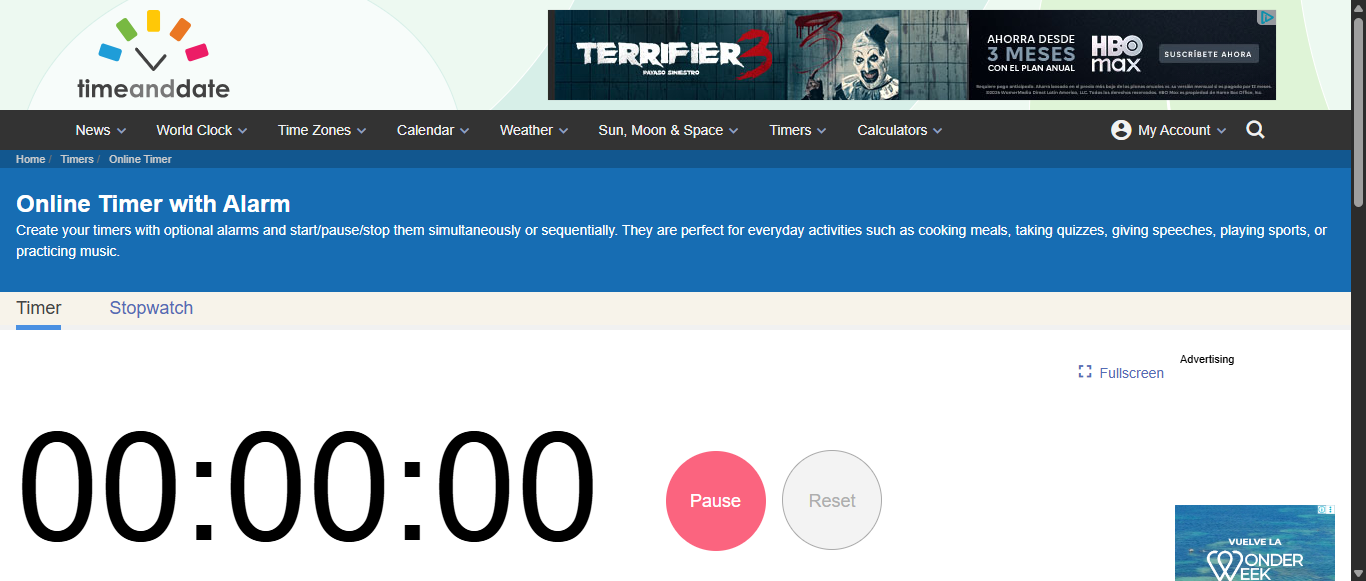
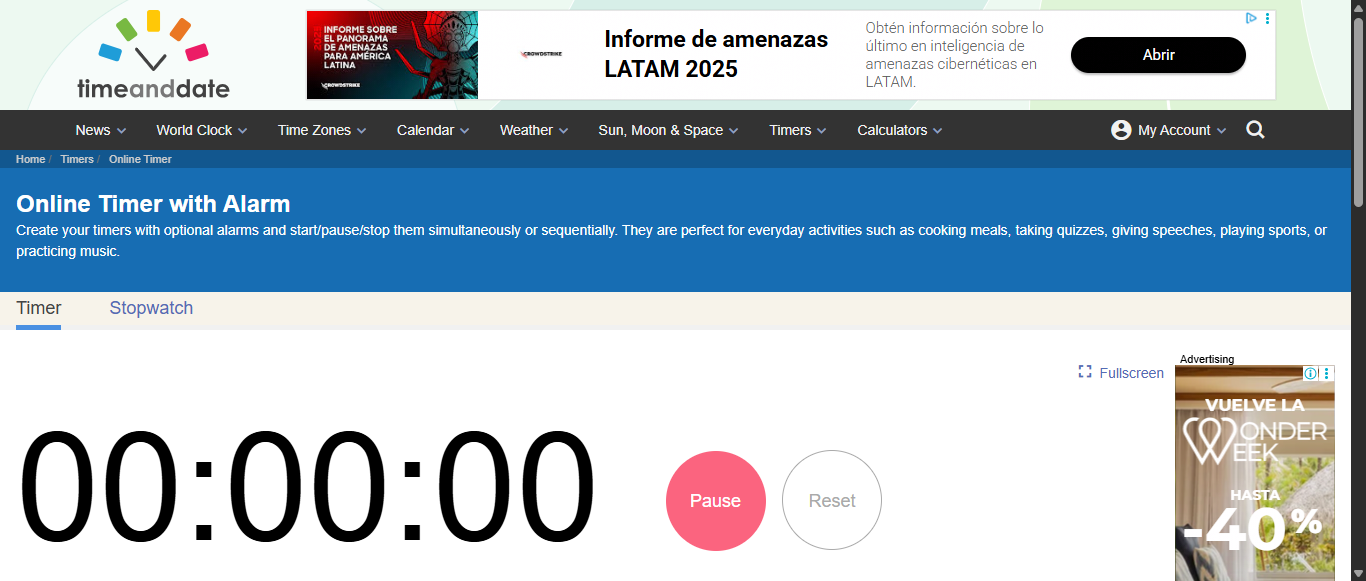
Cambio en step 24, 17 y 01

Changed region(s): [[0.2152, 0.0, 0.9531, 0.1859], [0.8609, 0.6196, 0.9839, 1.0]]

diff --git a/features/steps/steps_024.py b/features/steps/steps_024.py
@@ -15,26 +15,13 @@ def step_impl(context):
     )
     context.driver.execute_script("arguments[0].click();", edit_btn)
     time.sleep(1)
-    # Intentar con IDs conocidos; si no existen, buscar inputs numéricos del modal
-    for selector in ["#hourInput", "#minuteInput", "#secondInput",
-                     "input[data-unit='h']", "input[data-unit='m']", "input[data-unit='s']"]:
-        try:
-            fields = context.driver.find_elements(By.CSS_SELECTOR, selector)
-            for f in fields:
-                if f.is_displayed():
-                    f.clear()
-                    f.send_keys("0")
-        except Exception:
-            pass
-    # Confirmar con botón Done o cualquier submit del modal
-    for done_sel in ["input[value='Done']", "button[type='submit']", ".c-timer__done"]:
-        try:
-            btn = context.driver.find_element(By.CSS_SELECTOR, done_sel)
-            if btn.is_displayed():
-                context.driver.execute_script("arguments[0].click();", btn)
-                break
-        except Exception:
-            pass
+    for field_id in ["hourInput", "minuteInput", "secondInput"]:
+        field = WebDriverWait(context.driver, 5).until(
+            EC.visibility_of_element_located((By.ID, field_id))
+        )
+        field.clear()
+        field.send_keys("0")
+    context.driver.find_element(By.CSS_SELECTOR, "input[value='Done']").click()
     time.sleep(1)
 
 @when('presiona el botón de "Start"')
@@ -44,7 +31,6 @@ def step_impl(context):
         EC.element_to_be_clickable((By.CSS_SELECTOR, ".c-timer__btn--start"))
     )
     context.driver.execute_script("arguments[0].click();", start_btn)
-    # Descartar cualquier JS alert que aparezca (ej: "tiempo debe ser > 0")
     try:
         context.driver.switch_to.alert.accept()
     except Exception:
@@ -52,17 +38,17 @@ def step_impl(context):
 
 @then('el sistema no inicia el conteo o muestra una alerta para ingresar un tiempo mayor a cero')
 def step_impl(context):
-    # Si el timer está en "waiting" no ha iniciado el conteo
+    # Timer con 00:00 puede arrancar brevemente; esperar que expire o no corra
+    time.sleep(2)
     timer_div = context.driver.find_element(By.CSS_SELECTOR, ".c-timer")
     clase_timer = timer_div.get_attribute("class")
-    assert "running" not in clase_timer.lower()
+    assert "running" not in clase_timer.lower(), \
+        f"Timer sigue corriendo con 00:00: {clase_timer}"
 
 @given('que el usuario configura el temporizador en "00:05:00"')
 def step_impl(context):
     context.driver.get("https://www.timeanddate.com/timer/")
     time.sleep(1)
-    # El timer por defecto ya tiene un tiempo configurado (ej: 2 min)
-    # Verificamos que hay un botón de Start disponible
     WebDriverWait(context.driver, 8).until(
         EC.element_to_be_clickable((By.CSS_SELECTOR, ".c-timer__btn--start"))
     )
@@ -74,29 +60,34 @@ def step_impl(context):
         EC.element_to_be_clickable((By.CSS_SELECTOR, ".c-timer__btn--pause"))
     )
     context.driver.execute_script("arguments[0].click();", pause_btn)
-    time.sleep(0.5)
+    time.sleep(1)
 
 @then('el tiempo se detiene correctamente en el valor transcurrido')
 def step_impl(context):
-    # Cuando está pausado, el estado del div es c-timer--waiting (no c-timer--running)
-    timer_div = context.driver.find_element(By.CSS_SELECTOR, ".c-timer")
-    clase_timer = timer_div.get_attribute("class")
-    assert "running" not in clase_timer.lower()
+    # La clase CSS no cambia al pausar; verificar que el tiempo mostrado no avanza
+    t1 = context.driver.find_element(By.CSS_SELECTOR, ".c-timer").text.split()[0]
+    time.sleep(1.5)
+    t2 = context.driver.find_element(By.CSS_SELECTOR, ".c-timer").text.split()[0]
+    assert t1 == t2, f"Timer no pausado: {t1} → {t2}"
 
 @given('que el temporizador se encuentra pausado después de haber iniciado')
 def step_impl(context):
     context.execute_steps('''
         Given que el usuario configura el temporizador en "00:05:00"
+        When presiona "Start"
         When espera unos segundos y luego presiona "Pause"
     ''')
 
 @when('el usuario hace clic en el botón "Reset"')
 def step_impl(context):
-    context.driver.find_element(By.CSS_SELECTOR, ".c-timer__btn--reset").click()
+    reset_btn = context.driver.find_element(By.CSS_SELECTOR, ".c-timer__btn--reset")
+    context.driver.execute_script("arguments[0].click();", reset_btn)
+    time.sleep(0.5)
 
 @then('el temporizador vuelve a su configuración inicial')
 def step_impl(context):
+    # Después de reset el timer debe dejar de correr
     timer_div = context.driver.find_element(By.CSS_SELECTOR, ".c-timer")
     clase_timer = timer_div.get_attribute("class")
-    # Después de reset el timer vuelve al estado de espera
-    assert "running" not in clase_timer.lower()
+    assert "running" not in clase_timer.lower(), \
+        f"Timer sigue corriendo después de Reset: {clase_timer}"

diff --git a/features/steps/steps_001.py b/features/steps/steps_001.py
@@ -32,10 +32,16 @@ def step_impl(context):
 @when('navega a la sección de configuración "My Units" (/custom/)')
 def step_impl(context):
     context.driver.get("https://www.timeanddate.com/custom/")
+    # Verify we are on settings page, not redirected to login
+    WebDriverWait(context.driver, 10).until(
+        lambda d: "login" not in d.current_url
+    )
 
 @when('cambia la ciudad base a "Bogotá" y el idioma de la interfaz')
 def step_impl(context):
-    box = context.driver.find_element(By.ID, "homecity")
+    box = WebDriverWait(context.driver, 15).until(
+        EC.presence_of_element_located((By.ID, "homecity"))
+    )
     box.clear()
     box.send_keys("Bogota")
 
@@ -109,5 +115,8 @@ def step_impl(context):
 
 @then('la ciudad configurada en preferencias se refleja automáticamente en las consultas de reloj mundial y clima')
 def step_impl(context):
-    header_city = context.driver.find_element(By.ID, "nav-bc").text
-    assert "Bogota" in header_city or "Colombia" in header_city
+    # El worldclock muestra Bogota en la tabla de ciudades por defecto
+    bogota = WebDriverWait(context.driver, 10).until(
+        EC.presence_of_element_located((By.XPATH, "//a[contains(@href,'colombia/bogota')]"))
+    )
+    assert bogota.is_displayed()

diff --git a/features/steps/steps_017.py b/features/steps/steps_017.py
@@ -1,5 +1,7 @@
 from behave import given, when, then
 from selenium.webdriver.common.by import By
+from selenium.webdriver.support.ui import WebDriverWait
+from selenium.webdriver.support import expected_conditions as EC
 
 @given('que el usuario ingresa a la sección principal del clima')
 def step_impl(context):
@@ -7,9 +9,12 @@ def step_impl(context):
 
 @when('busca cualquier ciudad válida')
 def step_impl(context):
-    search = context.driver.find_element(By.CLASS_NAME, "picker-city__input")
+    search = WebDriverWait(context.driver, 8).until(
+        EC.element_to_be_clickable((By.CSS_SELECTOR, "input.picker-city__input"))
+    )
+    context.driver.execute_script("arguments[0].click();", search)
     search.send_keys("Medellin")
-    WebDriverWait(context.driver, 8).until(
+    WebDriverWait(context.driver, 10).until(
         EC.element_to_be_clickable((By.XPATH, "//ul[@class='asu']/li/a"))
     ).click()
 